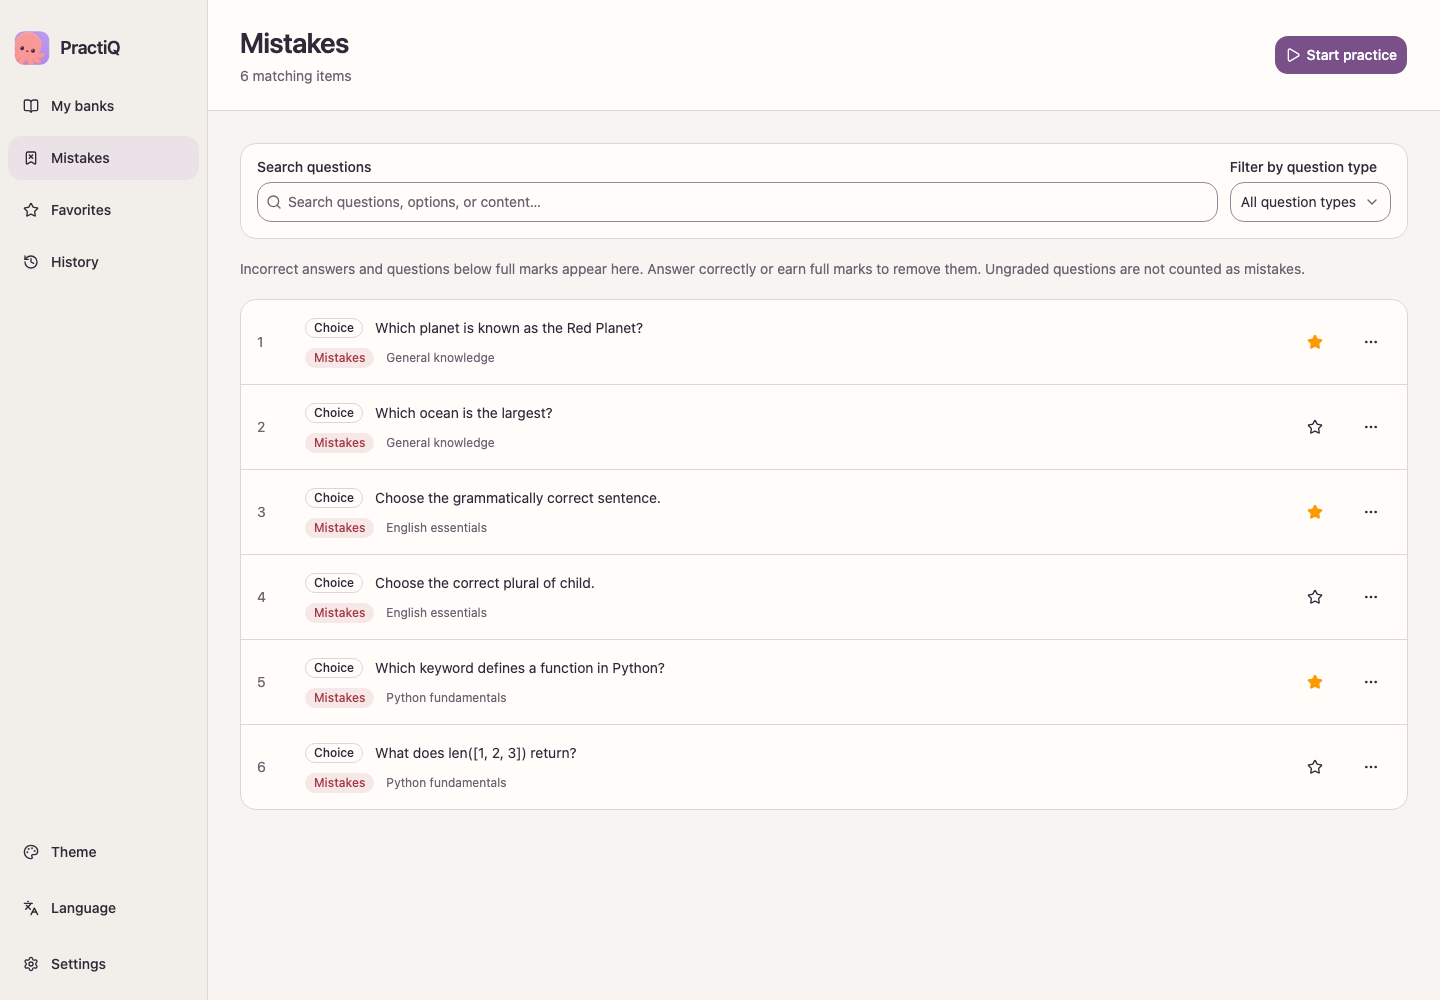
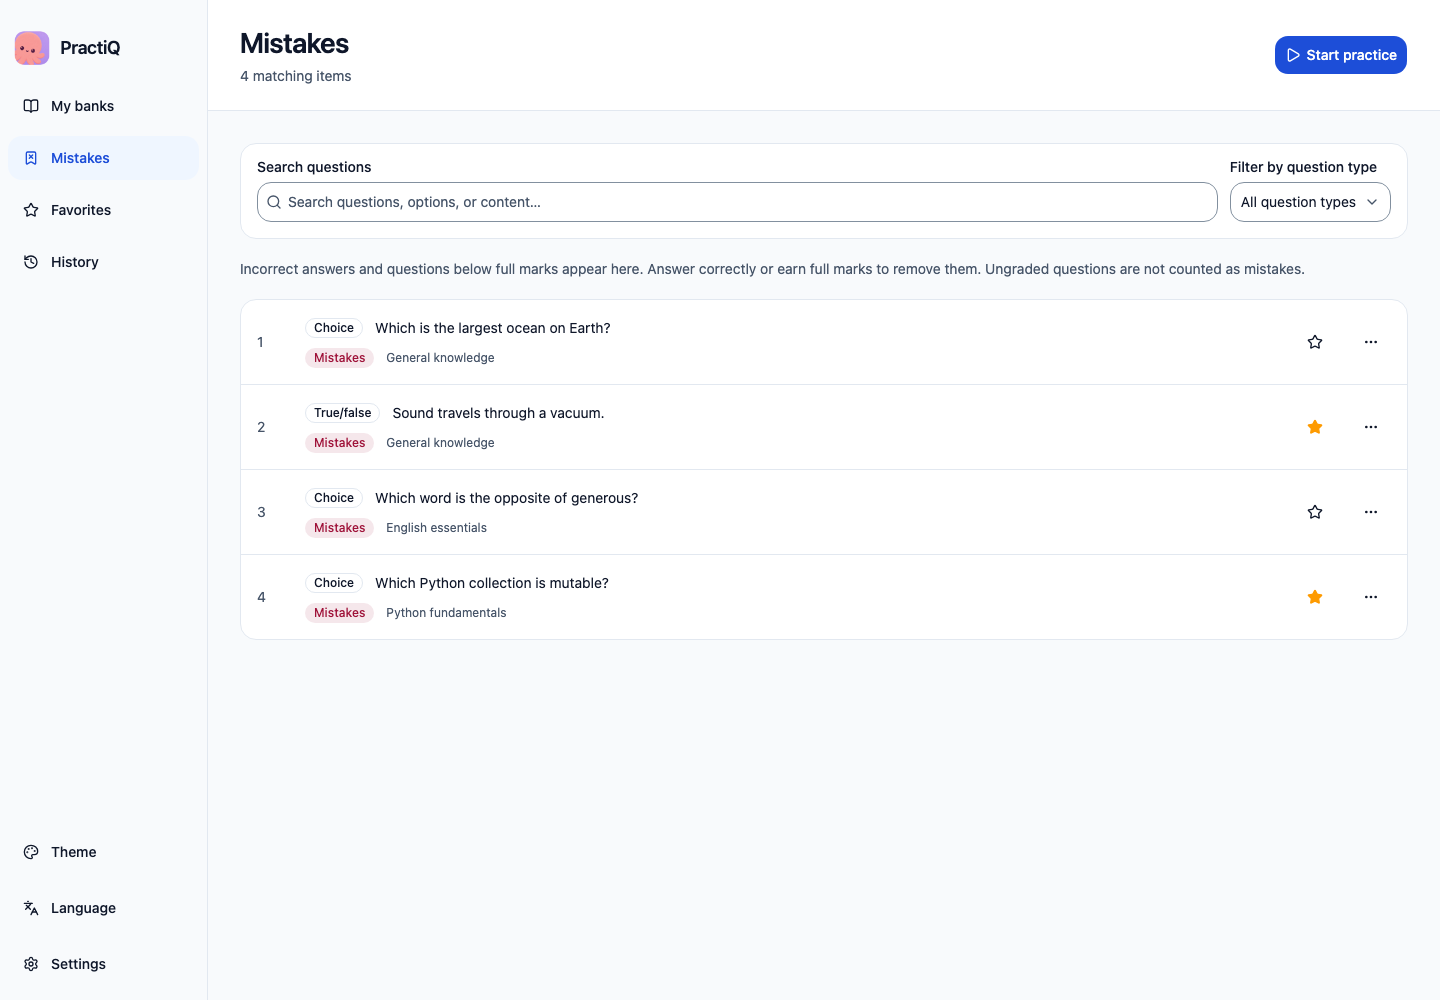
docs(readme): refresh screenshots from current desktop UI (#466)

diff --git a/README.md b/README.md
@@ -17,7 +17,7 @@ PractiQ works in English, Simplified Chinese and Traditional Chinese, with light
 
 ## Screenshots
 
-These screenshots show the desktop development preview in English, with hand-written sample banks and practice records. All data is held in memory; no credentials, uploads or model calls were used. Click an image to view it at full size.
+These screenshots were captured on **2026-10-29** from the desktop browser preview at [`0099f594`](https://github.com/shenyankm/PractiQ/commit/0099f5949b8b1b72c25f7939659b8cb1ce9d6041), in English with hand-written sample banks and practice records. All data is held in memory; no credentials, uploads or model calls were used. Click an image to view it at full size.
 
 | Question banks | Practice |
 | :---: | :---: |

diff --git a/README.zh-TW.md b/README.zh-TW.md
@@ -19,7 +19,7 @@
 
 ## 螢幕截圖
 
-以下截圖取自英文介面的桌面開發預覽，題庫與練習紀錄皆為人工編寫的範例。所有資料只存放在記憶體中，未輸入憑證、上傳檔案或呼叫模型。點選圖片即可查看原始大小。
+以下截圖於 **2026-10-29** 使用原始碼 [`0099f594`](https://github.com/shenyankm/PractiQ/commit/0099f5949b8b1b72c25f7939659b8cb1ce9d6041) 的桌面介面瀏覽器預覽拍攝，介面為英文，題庫與練習紀錄皆為人工編寫的範例。所有資料只存放在記憶體中，未輸入憑證、上傳檔案或呼叫模型。點選圖片即可查看原始大小。
 
 | 題庫 | 作答 |
 | :---: | :---: |

diff --git a/README.zh-CN.md b/README.zh-CN.md
@@ -17,7 +17,7 @@
 
 ## 截图
 
-以下截图取自英文界面的桌面开发预览，题库和练习记录均为人工编写的示例。所有数据只保存在内存中，没有输入凭据、上传文件或调用模型。点击图片可查看原图。
+以下截图于 **2026-10-29** 基于源码 [`0099f594`](https://github.com/shenyankm/PractiQ/commit/0099f5949b8b1b72c25f7939659b8cb1ce9d6041) 的桌面界面浏览器预览拍摄，界面为英文，题库和练习记录均为人工编写的示例。所有数据只保存在内存中，没有输入凭据、上传文件或调用模型。点击图片可查看原图。
 
 | 题库 | 答题 |
 | :---: | :---: |
